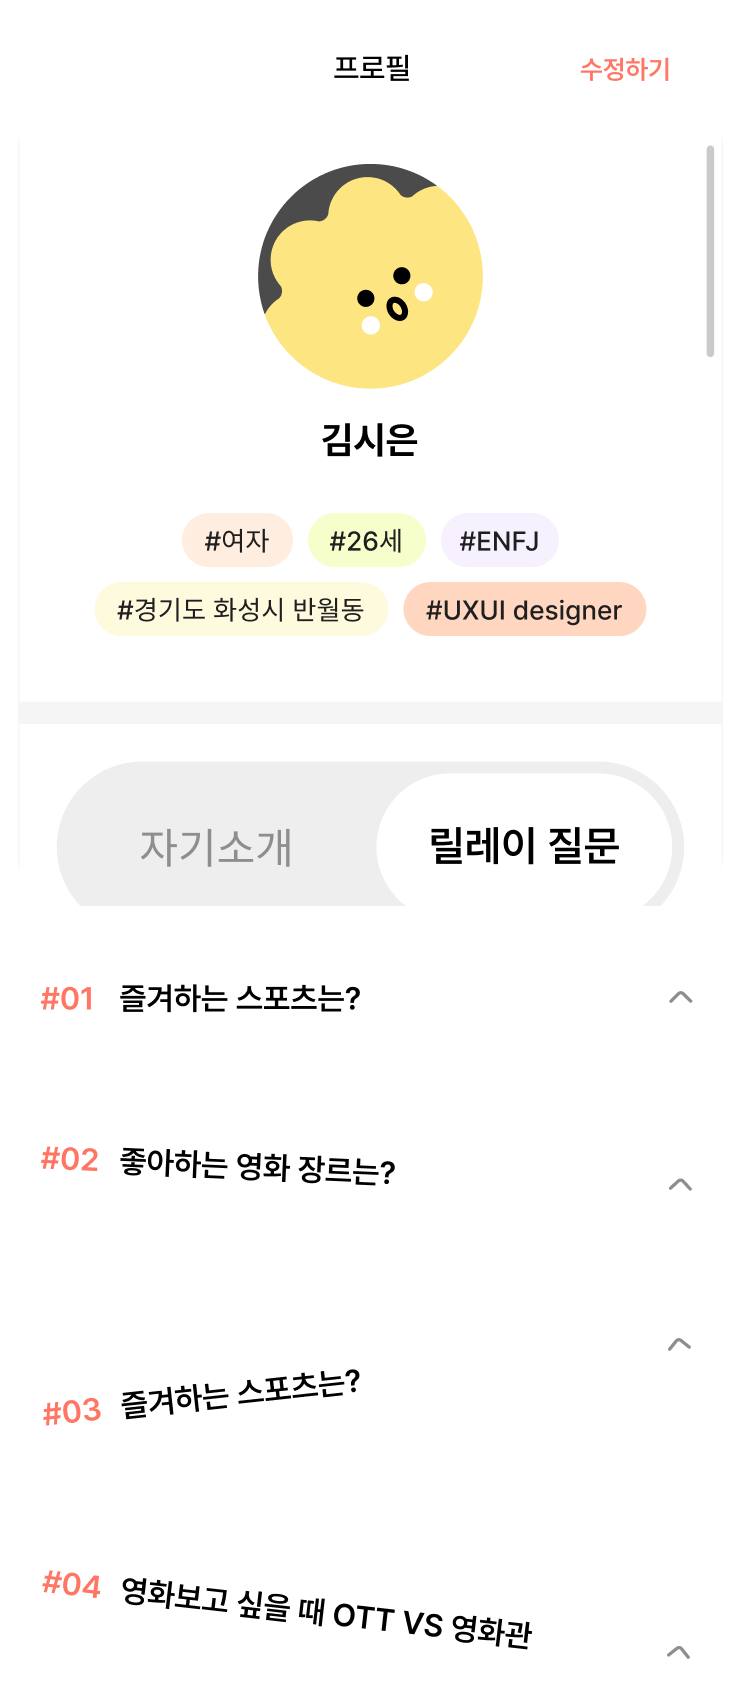
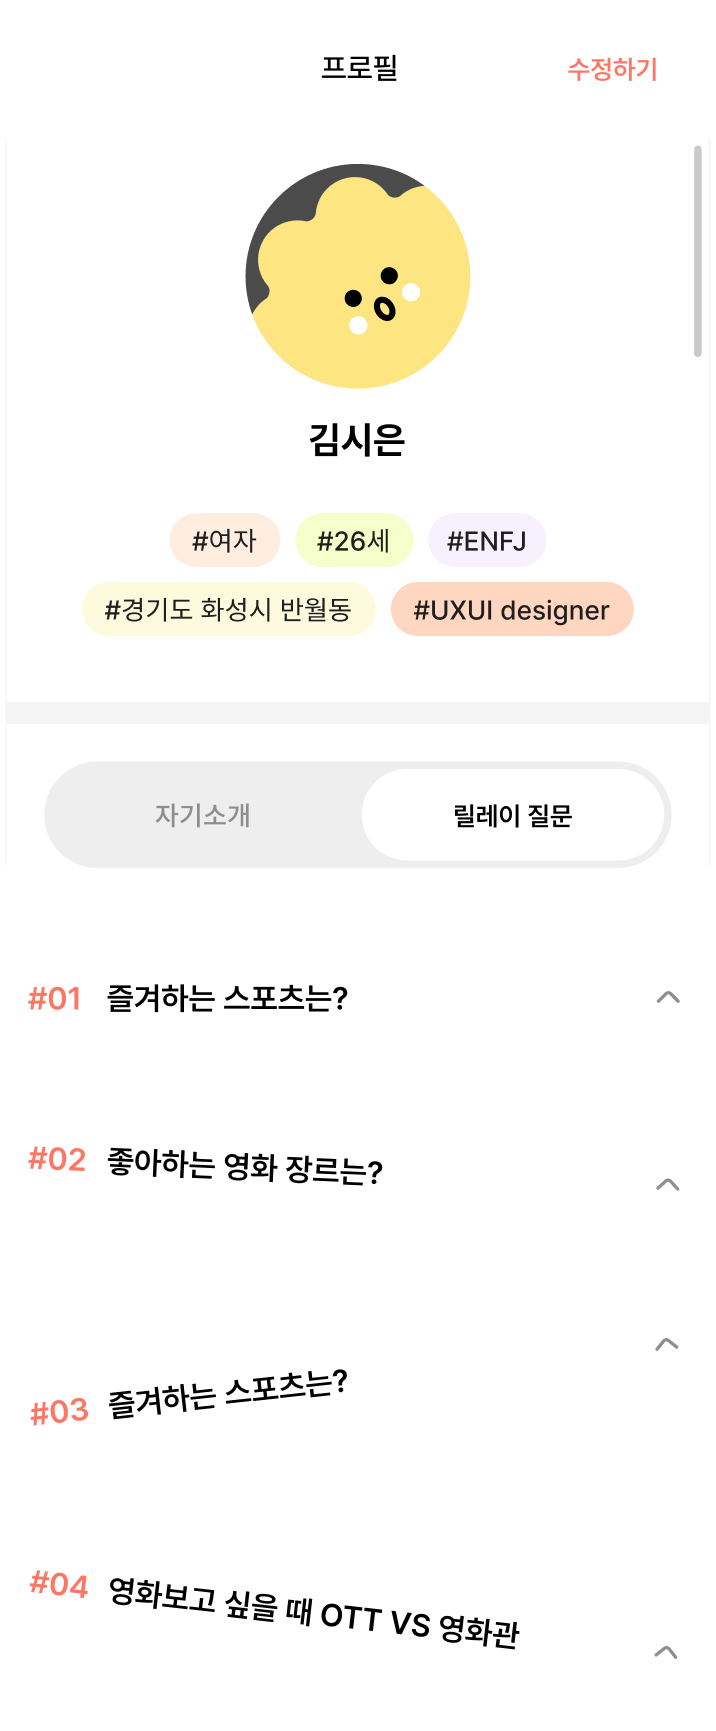
chore: LeeJeongHooo deploy production

diff --git a/packages/web-domains/src/about-me/features/components/Profile/Profile.tsx b/packages/web-domains/src/about-me/features/components/Profile/Profile.tsx
@@ -1,12 +1,17 @@
 'use client';
 
-import { Badge, Txt } from '@sambad/sds/components';
+import { If } from '@sambad/react-utils';
+import { Badge, Icon, Txt } from '@sambad/sds/components';
 import { borderRadiusVariants, colors } from '@sambad/sds/theme';
 import { Fragment } from 'react';
 
+import { useGetHandWavingsStatus } from '@/about-me/common/apis/queries/useGetHandWavingsStatus';
 import { Avatar } from '@/common/components/Avatar/Avatar';
 
-import { badgeContainerCss, nameCss } from './styles';
+import { useConvertTypeParams } from '../../hooks/useConvertTypeParams';
+
+import { wavingAcceptedMemberAttribute } from './constants';
+import { AvatarCss, badgeContainerCss, nameCss, wavingAcceptedBadgeCss } from './styles';
 import { generateAge, generateGender } from './utils';
 
 interface ProfileProps {
@@ -24,6 +29,14 @@ const colorMap = [colors.secondary100, colors.primary100, colors.tertiary50, col
 export const Profile = (props: ProfileProps) => {
   const { name, imageUrl, birth: birthFromProps, gender: genderFromProps, mbti, location, job } = props;
 
+  const { meetingId, meetingMemberId } = useConvertTypeParams();
+  const { data: wavingStatusData } = useGetHandWavingsStatus({
+    meetingId,
+    receiverMemberId: meetingMemberId,
+  });
+
+  const isWavingAcceptedMember = wavingStatusData?.status === 'ACCEPTED';
+
   const age = birthFromProps && generateAge(birthFromProps);
   const gender = generateGender(genderFromProps);
 
@@ -32,14 +45,24 @@ export const Profile = (props: ProfileProps) => {
   return (
     <Fragment>
       {imageUrl != null && (
-        <Avatar
-          imageUrl={imageUrl}
-          width={80}
-          height={80}
-          alt={`${name}_프로필_이미지`}
-          style={{ borderRadius: borderRadiusVariants.round }}
-        />
+        <div style={{ position: 'relative' }}>
+          <Avatar
+            imageUrl={imageUrl}
+            width={120}
+            height={120}
+            alt={`${name}_프로필_이미지`}
+            style={{ borderRadius: borderRadiusVariants.round }}
+            css={AvatarCss}
+            {...wavingAcceptedMemberAttribute.attribute(isWavingAcceptedMember)}
+          />
+          <If condition={isWavingAcceptedMember}>
+            <span css={wavingAcceptedBadgeCss}>
+              <Icon name="star" size={16} color={colors.white} />
+            </span>
+          </If>
+        </div>
       )}
+
       <Txt typography="heading2" css={nameCss}>
         {name}
       </Txt>

diff --git a/packages/core/sds/src/components/Icon/assets/Star.tsx b/packages/core/sds/src/components/Icon/assets/Star.tsx
@@ -1,0 +1,20 @@
+import { IconAssetProps } from '../types';
+
+export const StarIcon = ({ color, size = 20 }: IconAssetProps) => {
+  return (
+    <svg width={size} height={size} viewBox="0 0 17 16" fill="none" xmlns="http://www.w3.org/2000/svg">
+      <g id="fi-sr-star" clipPath="url(#clip0_5651_74229)">
+        <path
+          id="Vector"
+          d="M1.38284 8.26696L3.75618 10.0003L2.85484 12.7916C2.70918 13.2246 2.70734 13.693 2.84958 14.127C2.99183 14.5611 3.27054 14.9375 3.64418 15.2003C4.01141 15.4715 4.45644 15.6168 4.91294 15.6145C5.36945 15.6122 5.813 15.4625 6.17751 15.1876L8.49818 13.4796L10.8195 15.1856C11.1861 15.4553 11.6287 15.6017 12.0838 15.6039C12.5388 15.6062 12.9828 15.464 13.352 15.198C13.7212 14.9319 13.9965 14.5557 14.1384 14.1233C14.2802 13.6909 14.2813 13.2247 14.1415 12.7916L13.2402 10.0003L15.6135 8.26696C15.9796 7.9993 16.2517 7.6228 16.3911 7.19122C16.5304 6.75965 16.5298 6.29509 16.3893 5.86389C16.2488 5.43269 15.9757 5.05691 15.6089 4.79023C15.242 4.52355 14.8003 4.37961 14.3468 4.37896H11.4315L10.5468 1.62163C10.4077 1.1876 10.1344 0.808971 9.76616 0.540339C9.39796 0.271706 8.95395 0.126953 8.49818 0.126953C8.0424 0.126953 7.5984 0.271706 7.2302 0.540339C6.862 0.808971 6.58863 1.1876 6.44951 1.62163L5.56484 4.37896H2.65218C2.19867 4.37961 1.75697 4.52355 1.39016 4.79023C1.02335 5.05691 0.750203 5.43269 0.609723 5.86389C0.469244 6.29509 0.468622 6.75965 0.607947 7.19122C0.747271 7.6228 1.01942 7.9993 1.38551 8.26696H1.38284Z"
+          fill={color}
+        />
+      </g>
+      <defs>
+        <clipPath id="clip0_5651_74229">
+          <rect width={size} height={size} fill={color} transform="translate(0.5)" />
+        </clipPath>
+      </defs>
+    </svg>
+  );
+};

diff --git a/packages/web-domains/src/about-me/features/components/Profile/styles.ts b/packages/web-domains/src/about-me/features/components/Profile/styles.ts
@@ -1,8 +1,16 @@
 import { css } from '@emotion/react';
-import { size } from '@sambad/sds/theme';
+import { borderRadiusVariants, colors, size } from '@sambad/sds/theme';
+
+import { wavingAcceptedMemberAttribute } from './constants';
 
 export const nameCss = css({
   marginTop: size['2xs'],
+});
+
+export const AvatarCss = css({
+  [`&${wavingAcceptedMemberAttribute.querySelector}`]: {
+    border: `4.5px solid ${colors.primary500}`,
+  },
 });
 
 export const badgeContainerCss = css({
@@ -22,4 +30,18 @@ export const badgeContainerCss = css({
       marginRight: size['6xs'],
     },
   },
+});
+
+export const wavingAcceptedBadgeCss = css({
+  position: 'absolute',
+  width: '32px',
+  height: '32px',
+  backgroundColor: colors.primary500,
+  borderRadius: borderRadiusVariants.round,
+  // NOTE: 위치 보정
+  bottom: 4,
+  left: 0,
+  display: 'inline-flex',
+  justifyContent: 'center',
+  alignItems: 'center',
 });

diff --git a/apps/web/middleware.ts b/apps/web/middleware.ts
@@ -1,3 +1,4 @@
+import { getWebDomain } from '@/common';
 import { cookies } from 'next/headers';
 import { NextRequest, NextResponse } from 'next/server';
 
@@ -10,9 +11,7 @@ export async function middleware(request: NextRequest) {
   if (!accessToken && !request.nextUrl.pathname.startsWith('/auth')) {
     const response = NextResponse.redirect(new URL('/auth', request.url));
     if (request.nextUrl.pathname.startsWith('/meeting/participate/closing')) {
-      const host = request.headers.get('host');
-      const protocol = request.headers.get('x-forwarded-proto') || 'https';
-      const originalUrl = `${protocol}://${host}${request.nextUrl.pathname}${request.nextUrl.search}`;
+      const originalUrl = `${getWebDomain()}${request.nextUrl.pathname}${request.nextUrl.search}`;
       response.cookies.set('client_redirect_url', encodeURIComponent(originalUrl));
     }
     return response;

diff --git a/packages/web-domains/src/about-me/features/containers/ScreenContainer.tsx b/packages/web-domains/src/about-me/features/containers/ScreenContainer.tsx
@@ -31,6 +31,7 @@ export const ScreenContainer = () => {
   });
   const { mutate, isSuccess: sendWavingSuccess } = useCreateHandWavings();
 
+  const hiddenForWavingButton = isMy || wavingStatusData?.status === 'ACCEPTED' || !getWavingStatusSuccess;
   const isProgressHandWavings = sendWavingSuccess || wavingStatusData?.status === 'REQUESTED';
 
   const handleHandWaving = () => {
@@ -68,7 +69,7 @@ export const ScreenContainer = () => {
         <ProfileContainer style={{ marginBottom: size['5xs'] }} isMy={isMy} />
         <SegmentedControlContainer ref={segmentedRef} style={sectionStyle} />
       </div>
-      {!isMy && getWavingStatusSuccess && (
+      {!hiddenForWavingButton && (
         <FloatingButton
           size="large"
           disabled={isProgressHandWavings}

diff --git a/packages/web-domains/src/onboarding/features/components/Button/StartButton.tsx b/packages/web-domains/src/onboarding/features/components/Button/StartButton.tsx
@@ -20,14 +20,16 @@ export const StartButton = (props: StartButtonProps) => {
     const data = await onBoardingComplete();
 
     if (redirectUrl) {
-      router.push(redirectUrl);
+      const url = new URL(redirectUrl);
+      router.push(`${url.pathname}?${url.searchParams}`);
+      return;
     }
 
     // 만약 가입된 모임이 없다면
     if (data?.isNotEnteredAnyMeeting) {
       router.push('/user');
     }
-    // 만약 가입된 모임이 있다면
+    // // 만약 가입된 모임이 있다면
     else {
       router.push('/home');
     }

diff --git a/packages/core/sds/src/components/Icon/constants.ts b/packages/core/sds/src/components/Icon/constants.ts
@@ -22,6 +22,7 @@ import { QuestionIcon } from './assets/QuestionIcon';
 import { SadUserIcon } from './assets/SadUserIcon';
 import { SearchIcon } from './assets/SearchIcon';
 import { ShareIcon } from './assets/Share';
+import { StarIcon } from './assets/Star';
 import { Stats } from './assets/Stats';
 import { UpAndDown } from './assets/UpAndDown';
 import { Upload } from './assets/Upload';
@@ -58,4 +59,5 @@ export const iconMap = {
   upload: Upload,
   check: CheckIcon,
   'cross-circle': CrossCircle,
+  star: StarIcon,
 };

diff --git a/packages/web-domains/src/about-me/features/containers/constants.ts b/packages/web-domains/src/about-me/features/containers/constants.ts
@@ -13,3 +13,11 @@ export const checkboxAttribute = {
   },
   querySelector: `[${checkboxAttributeKey}=""]`,
 };
+
+const wavingAcceptedAttributeKey = 'data-sambad-waving-accepted';
+export const wavingAcceptedAttribute = {
+  attribute: (isAccepted: boolean) => ({
+    [wavingAcceptedAttributeKey]: isAccepted ? '' : undefined,
+  }),
+  querySelector: `[${wavingAcceptedAttributeKey}=""]`,
+};

diff --git a/packages/web-domains/src/onboarding/screens/OnBoardingScreen.tsx b/packages/web-domains/src/onboarding/screens/OnBoardingScreen.tsx
@@ -20,7 +20,7 @@ export const OnBoardingScreen = ({ step }: OnBoardingScreenProps) => {
   }
 
   const cookieStore = cookies();
-  const redirectUrl = cookieStore.get('client_redirect_url')?.value ?? '';
+  const redirectUrl = cookieStore.get('redirect_url')?.value ?? '';
 
   return (
     <OnBoardingLayout step={step}>

diff --git a/packages/web-domains/src/about-me/features/components/Profile/constants.ts b/packages/web-domains/src/about-me/features/components/Profile/constants.ts
@@ -1,0 +1,7 @@
+const wavingAcceptedMemberAttrKey = 'data-sambad-waving-accepted-member';
+export const wavingAcceptedMemberAttribute = {
+  attribute: (isAccepted: boolean) => ({
+    [wavingAcceptedMemberAttrKey]: isAccepted ? '' : undefined,
+  }),
+  querySelector: `[${wavingAcceptedMemberAttrKey}=""]`,
+};
